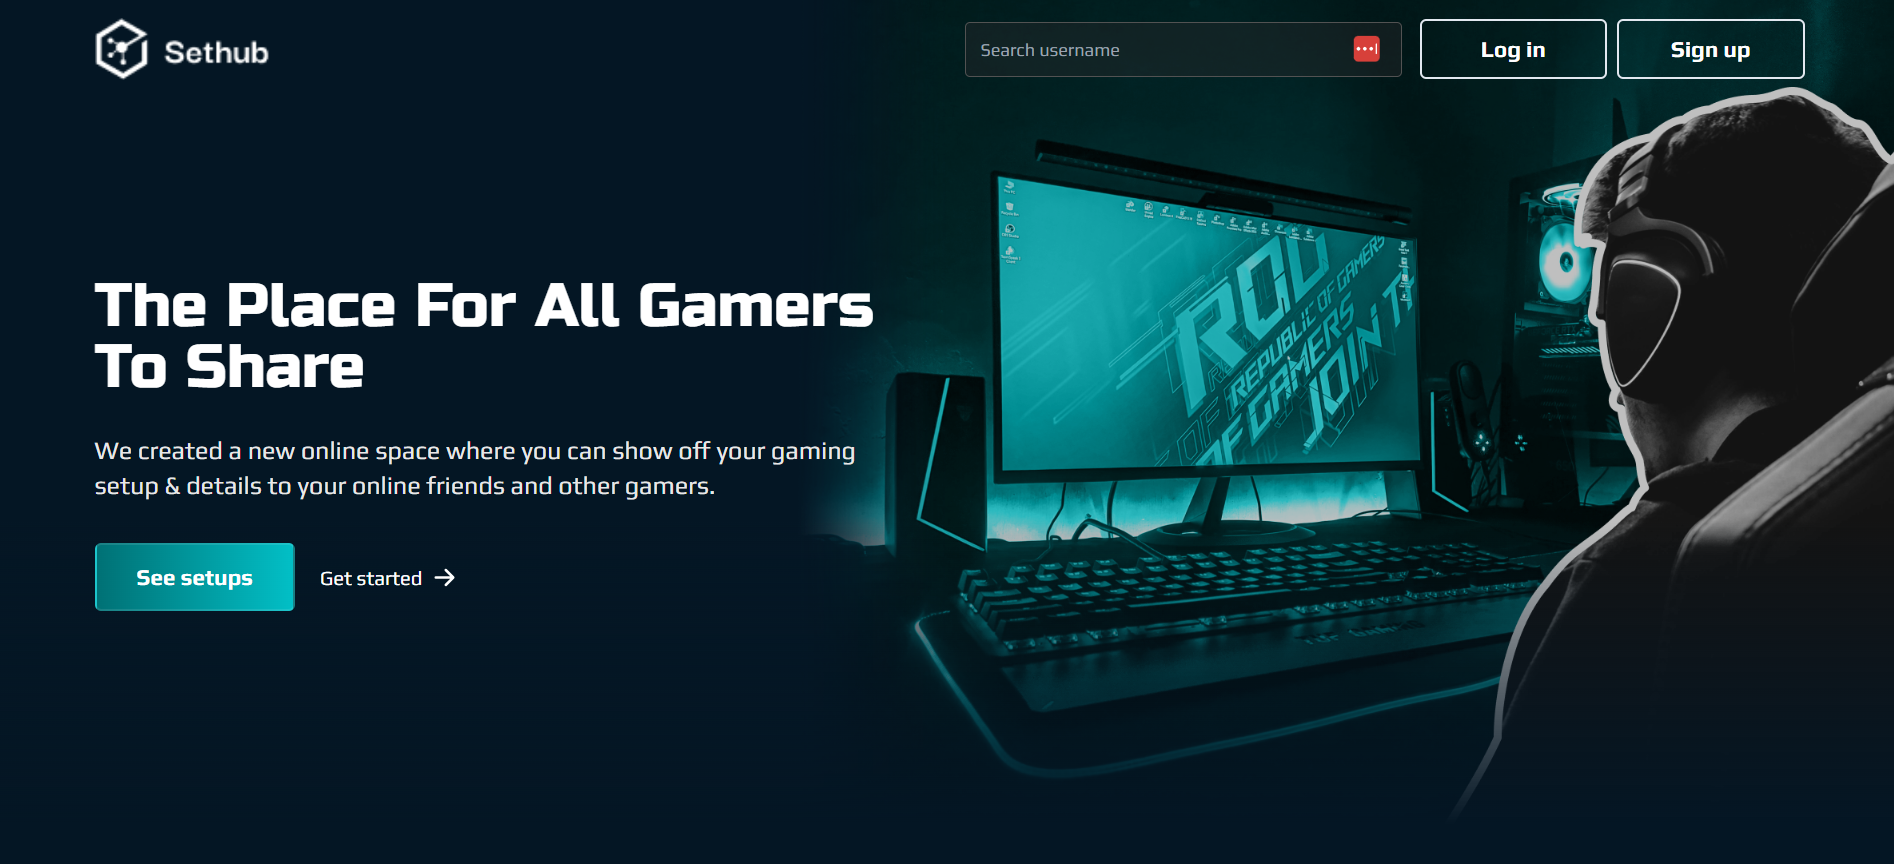
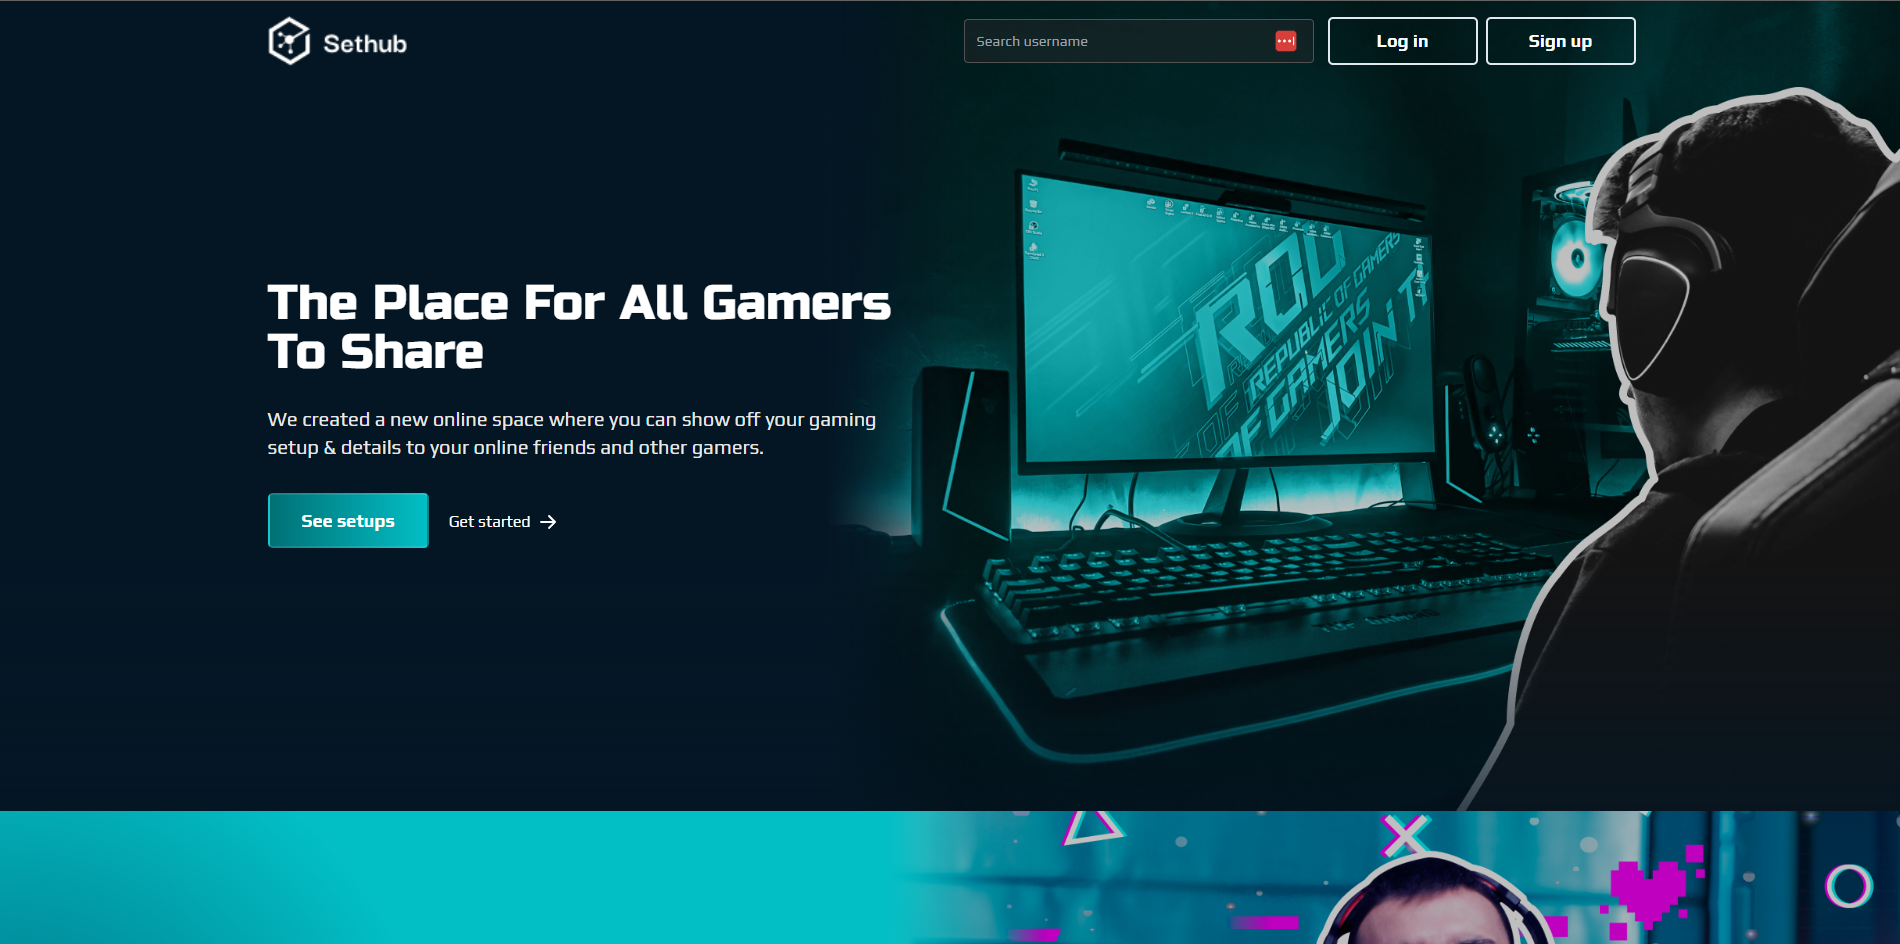
updated projects & tweaks

diff --git a/src/components/layouts/sections/home-hero.tsx b/src/components/layouts/sections/home-hero.tsx
@@ -39,9 +39,7 @@ export default function HomeHeroSection(props: HomeSectionProps) {
                 <stop offset="1" stop-color="white" stop-opacity="0" />
             </linearGradient>
         </defs>
-    </svg>
-
-        ;
+    </svg>;
 
 
     return <>
@@ -80,16 +78,16 @@ export default function HomeHeroSection(props: HomeSectionProps) {
                     </div>
                 </Fade>
                 <Fade duration={appStore.fadeConditional(600)} delay={appStore.fadeConditional(900)} direction='right' triggerOnce>
-                    <div className='flex items-end relative h-full max-lg:hidden'>
-                        <span
-                            style={{ background: "radial-gradient(50% 50% at 50% 50%, rgba(255, 255, 255, 0.5) 0%, rgba(255, 255, 255, 0) 100%)" }}
-                            className="absolute bottom-2 left-[-130px] max-[1280px]:left-[-60px] w-[130%] h-3/4 rotate-[20deg]"
-                        />
-                        <div className="absolute left-[-120px] bottom-[-10px] max-[1280px]:left-[-60px]">
+                    <div className='flex items-end relative h-full max-lg:hidden' >
+                        <div className="absolute right-12 bottom-[-10px] max-[1280px]:right-[-20px]" style={{ width: 320 }}>
+                            <span
+                                style={{ background: "radial-gradient(50% 50% at 50% 50%, rgba(255, 255, 255, 0.2) 0%, rgba(255, 255, 255, 0) 100%)" }}
+                                className="absolute max-[1280px]:hidden bottom-2 left-[-17%] w-[130%] h-[35%] rotate-[20deg] z-[-1]"
+                            />
                             <Image alt="lars-walraevens-picture" quality={100} src={picture} />
                         </div>
-                        <div id="hero-image-bg" className="relative max-[1280px]:opacity-0">
-                            <div className='absolute z-10 right-2 bottom-[40%] flex flex-col items-center '>
+                        <div className="max-[1280px]:opacity-0">
+                            <div className='absolute z-10 right-0 bottom-[12%] flex flex-col items-center '>
                                 <Fade duration={appStore.fadeConditional(500)} delay={appStore.fadeConditional(1700)} triggerOnce>
                                     <div className="flex items-center justify-center flex-col">
                                         {/* <span className='mb-2 '>{heroLogoIcon}</span> */}
@@ -129,9 +127,6 @@ export default function HomeHeroSection(props: HomeSectionProps) {
                                         <span className="relative opacity-80 hover:opacity-100">{heroWeightIcon}</span>
                                     </HeroTooltip>
                                 </Bounce>
-                            </div>
-                            <div className="opacity-0">
-                                {heroPictureBg}
                             </div>
                         </div>
                     </div>
